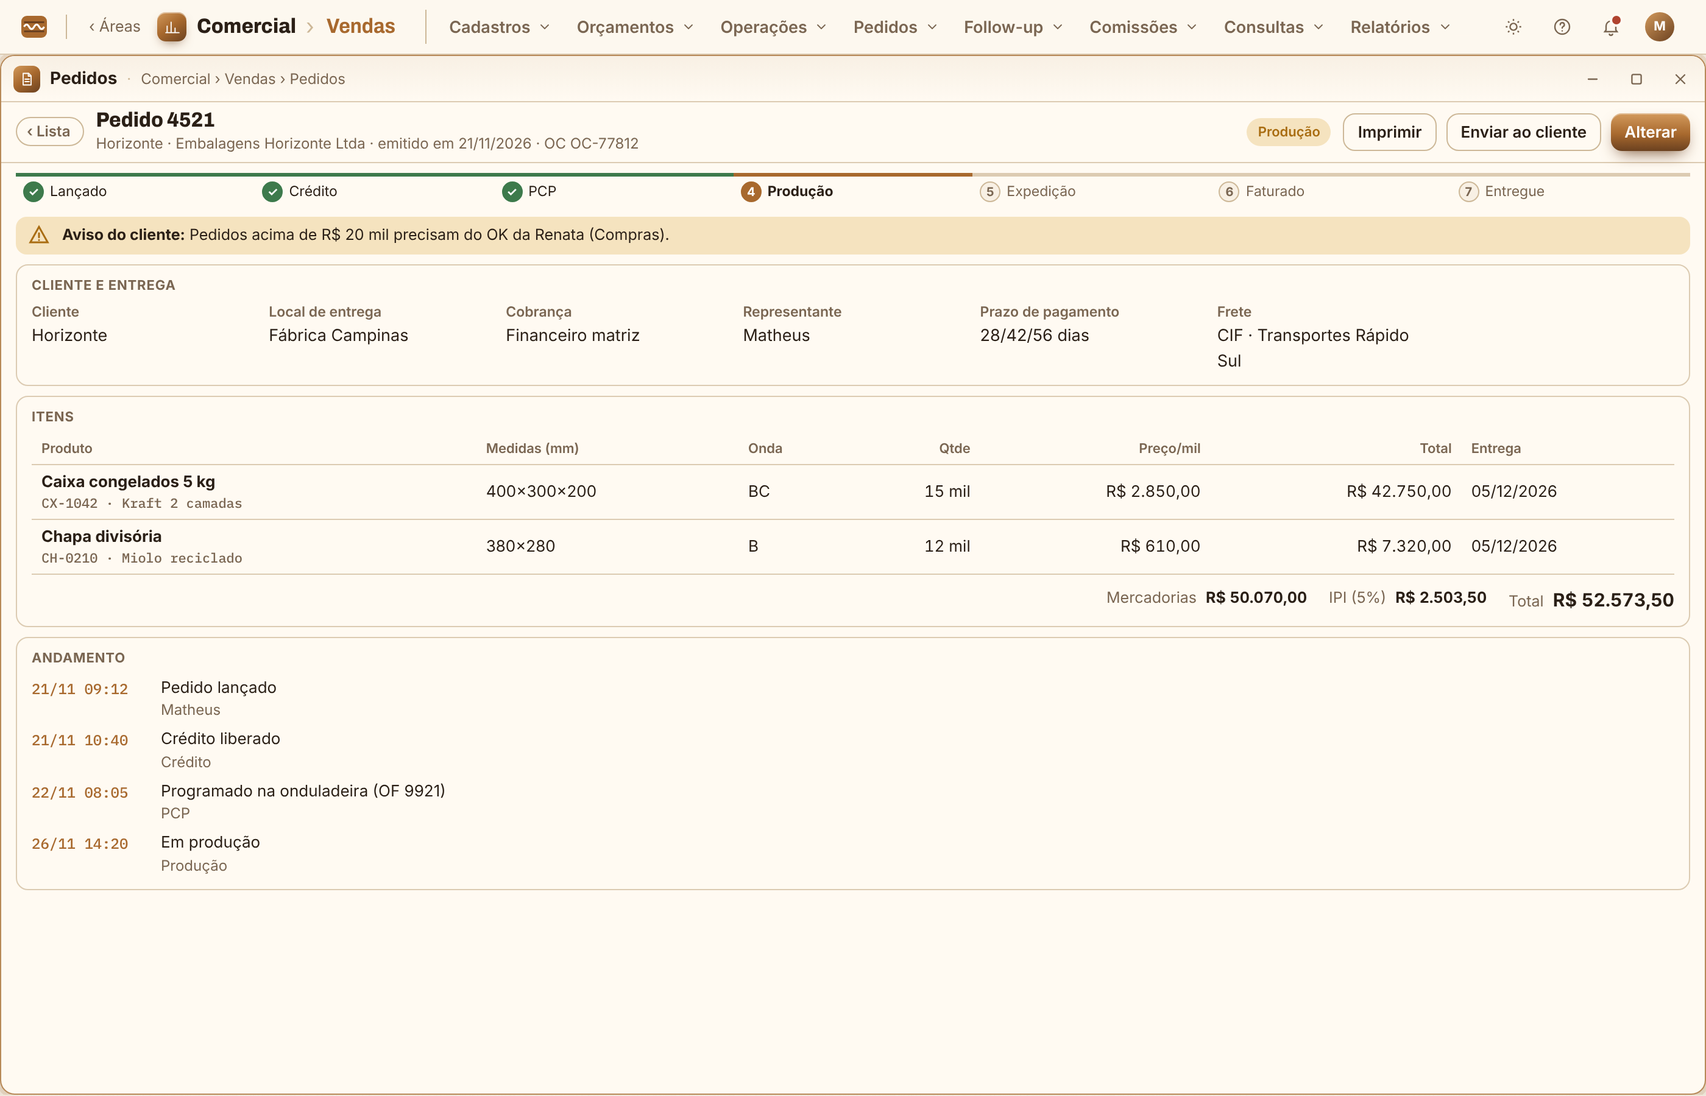
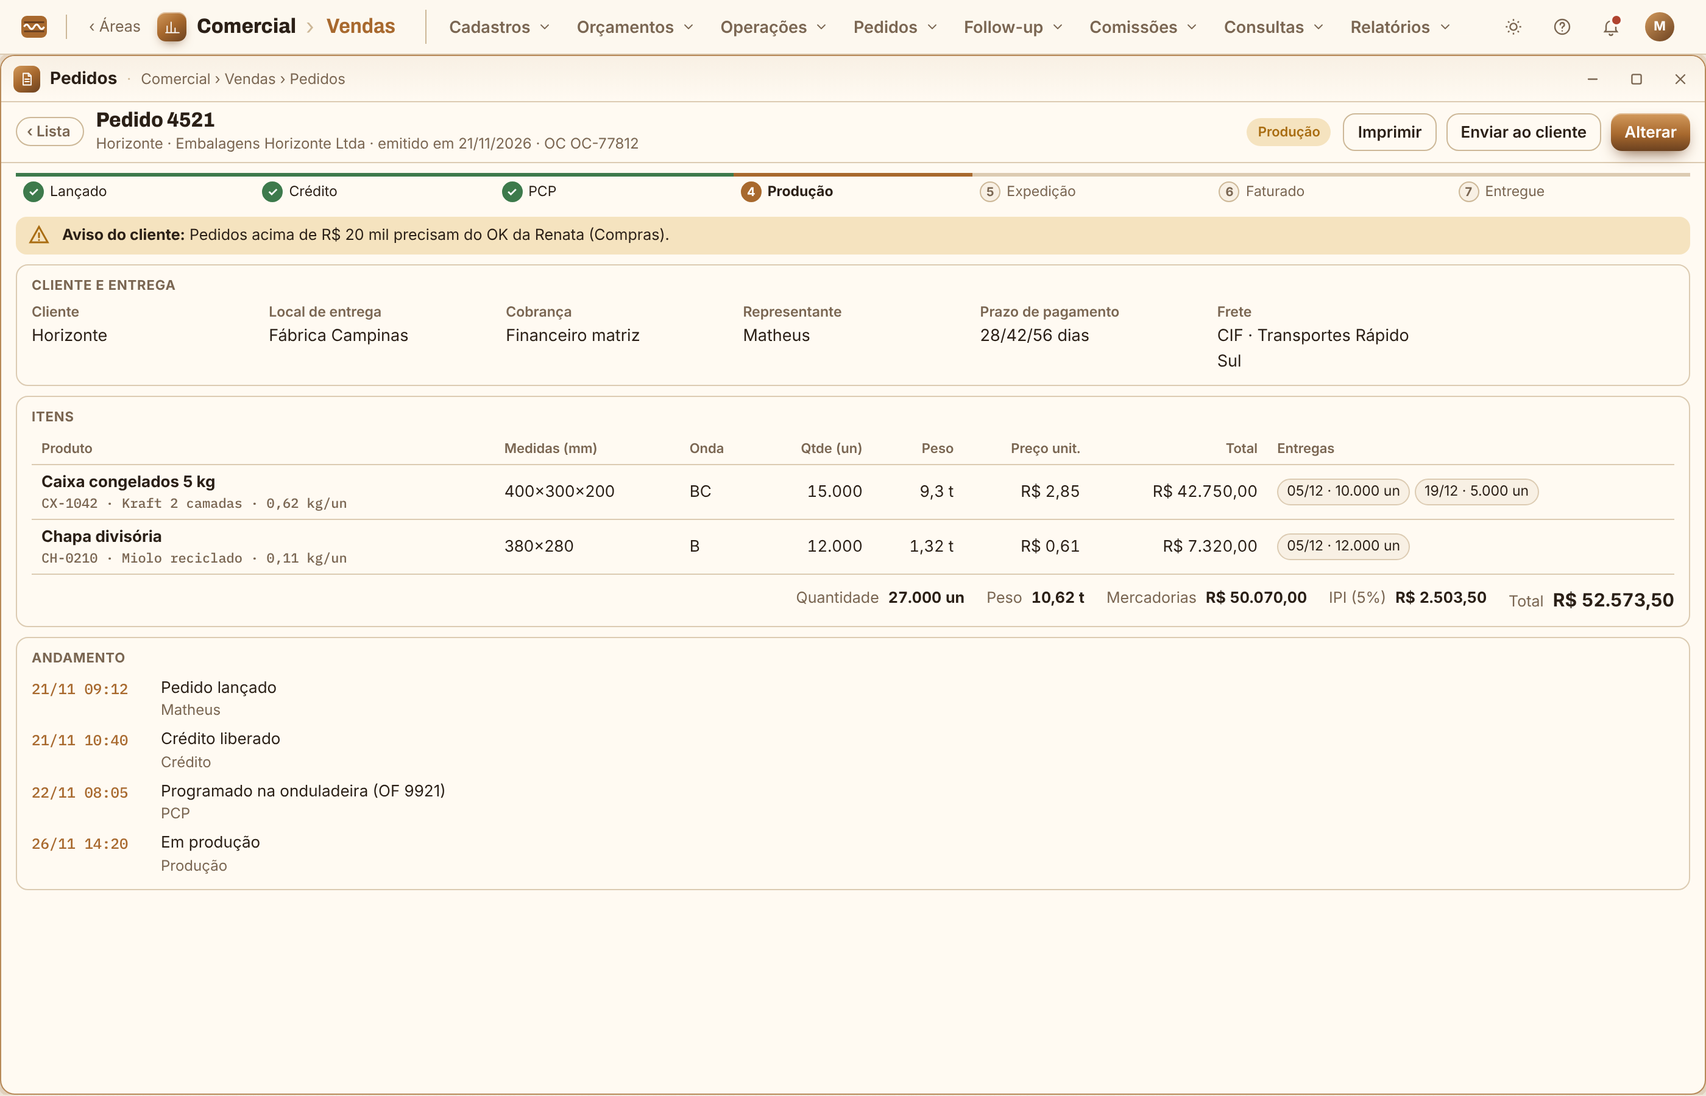
Pedidos: quantidade em unidades com peso, preço unitário e várias entregas por item
Claude-Session: https://claude.ai/code/session_015kL8p4eCaL1huCADCSMStj

diff --git a/prototipo/tela-inicial-e-comercial.html b/prototipo/tela-inicial-e-comercial.html
@@ -515,7 +515,7 @@ textarea.falta{border-color:var(--bad)!important}
 .pd-linhas tbody tr{cursor:pointer}
 .pd-linhas tbody tr:hover{background:var(--kraft-soft)}
 .pd-itens td small{display:block;color:var(--muted);font-size:11px}
-.pd-itens input{width:84px;text-align:right;font:inherit;padding:2px 6px;border:1px solid var(--line-2);border-radius:6px;background:var(--surface);color:var(--ink)}
+.pd-itens input{width:78px;text-align:right;font:inherit;padding:2px 6px;border:1px solid var(--line-2);border-radius:6px;background:var(--surface);color:var(--ink)}
 .pd-etapas{list-style:none;margin:8px 12px 0;padding:0;display:flex;gap:0;font-size:11.5px;color:var(--muted)}
 .pd-etapas li{flex:1;display:flex;align-items:center;gap:5px;padding:4px 6px;border-top:3px solid var(--line);white-space:nowrap}
 .pd-etapas li span{width:17px;height:17px;border-radius:50%;display:grid;place-items:center;font-size:10px;font-weight:700;background:var(--surface-2);border:1px solid var(--line-2);flex:none}
@@ -540,6 +540,16 @@ textarea.falta{border-color:var(--bad)!important}
 .pd-cli{max-width:520px}
 .pd-cli select{background:var(--surface)!important}
 .pd-prods{display:flex;flex-wrap:wrap;gap:6px}
+.pd-td-ents{white-space:normal!important}
+.pd-ent{display:inline-block;margin:1px 4px 1px 0;padding:1px 7px;border-radius:99px;background:var(--surface-2);border:1px solid var(--line);font-size:11.5px;white-space:nowrap}
+.pd-ents{display:flex;flex-wrap:wrap;gap:3px 8px;align-items:center;font-size:12px;color:var(--muted)}
+.pd-ents span{display:inline-flex;gap:3px;align-items:center;white-space:nowrap}
+.pd-ents .pd-data{width:88px;text-align:left}
+.pd-ents input[data-eqtd]{width:64px}
+.pd-x{border:0;background:transparent;color:var(--bad);cursor:pointer;font-size:14px;padding:0 2px}
+.pd-mais{border:1px dashed var(--line-2);background:transparent;border-radius:6px;padding:1px 7px;font-size:11.5px;cursor:pointer;color:var(--kraft)}
+.pd-ents em{font-style:normal;color:var(--warn);font-weight:600}
+.pd-ents em.neg{color:var(--bad)}
 .pd-prod{display:grid;text-align:left;border:1px dashed var(--line-2);background:var(--surface-2);border-radius:8px;padding:5px 10px;cursor:pointer;font-size:13px}
 .pd-prod small{font-size:11.5px;color:var(--muted)}
 .pd-prod:hover{border-color:var(--kraft);border-style:solid}
@@ -3305,35 +3315,39 @@ function novoProspect(box){
 const ETAPAS = ['Lançado','Crédito','PCP','Produção','Expedição','Faturado','Entregue'];
 const PRODUTOS_CLI = {
   1: [
-    { cod:'CX-1042', desc:'Caixa congelados 5 kg', med:'400×300×200', onda:'BC', comp:'Kraft 2 camadas', un:'mil', preco:2850 },
-    { cod:'CX-1043', desc:'Caixa congelados 10 kg', med:'500×350×250', onda:'BC', comp:'Kraft 2 camadas', un:'mil', preco:3920 },
-    { cod:'CH-0210', desc:'Chapa divisória', med:'380×280', onda:'B', comp:'Miolo reciclado', un:'mil', preco:610 },
+    { cod:'CX-1042', desc:'Caixa congelados 5 kg', med:'400×300×200', onda:'BC', comp:'Kraft 2 camadas', peso:0.62, preco:2.85 },
+    { cod:'CX-1043', desc:'Caixa congelados 10 kg', med:'500×350×250', onda:'BC', comp:'Kraft 2 camadas', peso:0.95, preco:3.92 },
+    { cod:'CH-0210', desc:'Chapa divisória', med:'380×280', onda:'B', comp:'Miolo reciclado', peso:0.11, preco:0.61 },
   ],
   2: [
-    { cod:'CX-2201', desc:'Caixa cortes bovinos 20 kg', med:'600×400×180', onda:'BC', comp:'Kraft resistente à umidade', un:'mil', preco:4710 },
-    { cod:'CX-2205', desc:'Caixa embutidos 6 kg', med:'420×300×150', onda:'C', comp:'Kraft', un:'mil', preco:2340 },
+    { cod:'CX-2201', desc:'Caixa cortes bovinos 20 kg', med:'600×400×180', onda:'BC', comp:'Kraft resistente à umidade', peso:1.20, preco:4.71 },
+    { cod:'CX-2205', desc:'Caixa embutidos 6 kg', med:'420×300×150', onda:'C', comp:'Kraft', peso:0.48, preco:2.34 },
   ],
   3: [], 4: [],
 };
 const PEDIDOS = [
   { n:'4521', cli:1, data:'21/11/2026', oc:'OC-77812', etapa:3, rep:'Matheus', entrega:'Fábrica Campinas', cobranca:'Financeiro matriz', prazo:'28/42/56 dias', frete:'CIF', transp:'Transportes Rápido Sul', obs:'',
-    itens:[ { cod:'CX-1042', qtd:15, preco:2850, ent:'05/12/2026' }, { cod:'CH-0210', qtd:12, preco:610, ent:'05/12/2026' } ],
+    itens:[ { cod:'CX-1042', qtd:15000, preco:2.85, ents:[ { data:'05/12/2026', qtd:10000 }, { data:'19/12/2026', qtd:5000 } ] }, { cod:'CH-0210', qtd:12000, preco:0.61, ents:[ { data:'05/12/2026', qtd:12000 } ] } ],
     hist:[ ['21/11 09:12','Pedido lançado','Matheus'], ['21/11 10:40','Crédito liberado','Crédito'], ['22/11 08:05','Programado na onduladeira (OF 9921)','PCP'], ['26/11 14:20','Em produção','Produção'] ] },
   { n:'4509', cli:2, data:'18/11/2026', oc:'PC 3310', etapa:2, rep:'Matheus', entrega:'Planta Araraquara', cobranca:'Contas a pagar', prazo:'28 dias', frete:'CIF', transp:'Transportes Rápido Sul', obs:'Câmara fria: entregar em paletes filmados.',
-    itens:[ { cod:'CX-2201', qtd:5, preco:4710, ent:'02/12/2026' }, { cod:'CX-2205', qtd:1.5, preco:2340, ent:'02/12/2026' } ],
+    itens:[ { cod:'CX-2201', qtd:5000, preco:4.71, ents:[ { data:'02/12/2026', qtd:5000 } ] }, { cod:'CX-2205', qtd:1500, preco:2.34, ents:[ { data:'02/12/2026', qtd:1500 } ] } ],
     hist:[ ['18/11 15:30','Pedido lançado','Matheus'], ['19/11 09:00','Crédito liberado pela gerência (limite em 95%)','Crédito'] ] },
   { n:'4488', cli:1, data:'12/11/2026', oc:'OC-77640', etapa:5, rep:'Matheus', entrega:'CD Sumaré', cobranca:'Financeiro matriz', prazo:'28/42/56 dias', frete:'CIF', transp:'Transportes Rápido Sul', obs:'',
-    itens:[ { cod:'CX-1043', qtd:9.9, preco:3920, ent:'25/11/2026' } ],
+    itens:[ { cod:'CX-1043', qtd:9900, preco:3.92, ents:[ { data:'25/11/2026', qtd:9900 } ] } ],
     hist:[ ['12/11','Pedido lançado','Matheus'], ['24/11','Faturado · NF 88430','Faturamento'] ] },
   { n:'4530', cli:2, data:'26/11/2026', oc:'', etapa:1, rep:'Matheus', entrega:'Planta Araraquara', cobranca:'Contas a pagar', prazo:'28 dias', frete:'CIF', transp:'Transportes Rápido Sul', obs:'',
-    itens:[ { cod:'CX-2205', qtd:4, preco:2340, ent:'10/12/2026' } ],
+    itens:[ { cod:'CX-2205', qtd:4000, preco:2.34, ents:[ { data:'10/12/2026', qtd:4000 } ] } ],
     hist:[ ['26/11 16:02','Pedido lançado','Matheus'], ['26/11 16:02','Aguardando crédito: limite estourado','Sistema'] ], bloqueio:'Crédito: o pedido passa do limite do cliente.' },
   { n:'4430', cli:1, data:'30/10/2026', oc:'OC-77210', etapa:6, rep:'Matheus', entrega:'Fábrica Campinas', cobranca:'Financeiro matriz', prazo:'28/42/56 dias', frete:'CIF', transp:'Transportes Rápido Sul', obs:'',
-    itens:[ { cod:'CX-1042', qtd:18, preco:2790, ent:'14/11/2026' } ],
+    itens:[ { cod:'CX-1042', qtd:18000, preco:2.79, ents:[ { data:'14/11/2026', qtd:18000 } ] } ],
     hist:[ ['30/10','Pedido lançado','Matheus'], ['13/11','Faturado · NF 88102','Faturamento'], ['14/11','Entregue','Expedição'] ] },
 ];
 const brl = (v) => 'R$ ' + v.toLocaleString('pt-BR', { minimumFractionDigits:2, maximumFractionDigits:2 });
-const prodDe = (cli, cod) => (PRODUTOS_CLI[cli] || []).find(p => p.cod === cod) || { desc:cod, med:'', onda:'', comp:'', un:'mil' };
+const prodDe = (cli, cod) => (PRODUTOS_CLI[cli] || []).find(p => p.cod === cod) || { desc:cod, med:'', onda:'', comp:'', peso:0, preco:0 };
+const un = (v) => Math.round(v).toLocaleString('pt-BR');
+const kg = (v) => v >= 1000 ? (v / 1000).toLocaleString('pt-BR', { maximumFractionDigits:2 }) + ' t' : Math.round(v).toLocaleString('pt-BR') + ' kg';
+const brl4 = (v) => 'R$ ' + v.toLocaleString('pt-BR', { minimumFractionDigits:2, maximumFractionDigits:4 });
+const pesoPed = (cli, itens) => itens.reduce((a, i) => a + i.qtd * (prodDe(cli, i.cod).peso || 0), 0);
 const totalPed = (p) => p.itens.reduce((a, i) => a + i.qtd * i.preco, 0);
 const cliDe = (id) => CLIENTES.find(c => c.id === id);
 const pillEtapa = (p) => p.bloqueio ? '<span class="pill p-bad">Bloqueado</span>'
@@ -3357,7 +3371,7 @@ function listaPedidos(box, soLinhas){
     .sort((a, b) => b.n.localeCompare(a.n));
   const linhas = l.length ? `<table class="pd-tab"><thead><tr><th>Pedido</th><th>Cliente</th><th>OC do cliente</th><th>Emissão</th><th>Entrega</th><th class="num">Valor</th><th>Etapa</th></tr></thead><tbody>${l.map(p => {
       const c = cliDe(p.cli);
-      return `<tr data-ped="${p.n}"><td class="mono">${p.n}</td><td><b>${esc(nomeExib(c))}</b></td><td>${esc(p.oc || '—')}</td><td>${p.data.slice(0,5)}</td><td>${p.itens[0].ent.slice(0,5)}</td><td class="num">${brl(totalPed(p))}</td><td>${pillEtapa(p)}</td></tr>`;
+      return `<tr data-ped="${p.n}"><td class="mono">${p.n}</td><td><b>${esc(nomeExib(c))}</b></td><td>${esc(p.oc || '—')}</td><td>${p.data.slice(0,5)}</td><td>${p.itens[0].ents[0].data.slice(0,5)}</td><td class="num">${brl(totalPed(p))}</td><td>${pillEtapa(p)}</td></tr>`;
     }).join('')}</tbody></table>` : '<div class="vazio"><b>Nenhum pedido aqui</b><span>Busque pelo número, OC ou cliente.</span></div>';
   if (soLinhas) { box.querySelector('.pd-linhas').innerHTML = linhas; return; }
   box.innerHTML = `<div class="cl-topo">
@@ -3370,17 +3384,22 @@ function etapasHTML(p){
   return `<ol class="pd-etapas">${ETAPAS.map((e, i) => `<li class="${i < p.etapa ? 'feita' : i === p.etapa ? (p.bloqueio ? 'bloq' : 'atual') : ''}"><span>${i < p.etapa ? '✓' : i + 1}</span>${e}</li>`).join('')}</ol>`;
 }
 function itensHTML(cli, itens, editavel){
-  return `<table class="pd-tab pd-itens"><thead><tr><th>Produto</th><th>Medidas (mm)</th><th>Onda</th><th class="num">Qtde</th><th class="num">Preço/mil</th><th class="num">Total</th><th>Entrega</th></tr></thead><tbody>${itens.map((i, k) => {
-      const pr = prodDe(cli, i.cod);
-      return `<tr><td><b>${esc(pr.desc)}</b><small class="mono">${i.cod} · ${esc(pr.comp)}</small></td><td>${pr.med}</td><td>${pr.onda}</td>
-        <td class="num">${editavel ? `<input data-qtd="${k}" value="${String(i.qtd).replace('.', ',')}">` : i.qtd.toLocaleString('pt-BR') + ' mil'}</td>
-        <td class="num">${editavel ? `<input data-preco="${k}" value="${i.preco.toFixed(2).replace('.', ',')}">` : brl(i.preco)}</td>
-        <td class="num" data-tot="${k}">${brl(i.qtd * i.preco)}</td><td>${i.ent}</td></tr>`;
+  return `<table class="pd-tab pd-itens"><thead><tr><th>Produto</th><th>Medidas (mm)</th><th>Onda</th><th class="num">Qtde (un)</th><th class="num">Peso</th><th class="num">Preço unit.</th><th class="num">Total</th><th>Entregas</th></tr></thead><tbody>${itens.map((i, k) => {
+      const pr = prodDe(cli, i.cod), soma = i.ents.reduce((a, e) => a + e.qtd, 0), falta = i.qtd - soma;
+      const ents = editavel
+        ? `<div class="pd-ents">${i.ents.map((e, x) => `<span><input class="pd-data" data-edata="${k}.${x}" value="${e.data}"><input data-eqtd="${k}.${x}" value="${un(e.qtd)}"> un${i.ents.length > 1 ? `<button type="button" class="pd-x" data-erm="${k}.${x}" title="Tirar esta entrega">×</button>` : ''}</span>`).join('')}
+            <button type="button" class="pd-mais" data-eadd="${k}">+ entrega</button>${falta ? `<em class="${falta < 0 ? 'neg' : ''}">${falta > 0 ? 'faltam ' + un(falta) : 'sobram ' + un(-falta)} un</em>` : ''}</div>`
+        : i.ents.map(e => `<span class="pd-ent">${e.data.slice(0,5)} · ${un(e.qtd)} un</span>`).join('');
+      return `<tr><td><b>${esc(pr.desc)}</b><small class="mono">${i.cod} · ${esc(pr.comp)} · ${(pr.peso || 0).toLocaleString('pt-BR')} kg/un</small></td><td>${pr.med}</td><td>${pr.onda}</td>
+        <td class="num">${editavel ? `<input data-qtd="${k}" value="${un(i.qtd)}">` : un(i.qtd)}</td>
+        <td class="num" data-peso="${k}">${kg(i.qtd * (pr.peso || 0))}</td>
+        <td class="num">${editavel ? `<input data-preco="${k}" value="${i.preco.toFixed(2).replace('.', ',')}">` : brl4(i.preco)}</td>
+        <td class="num" data-tot="${k}">${brl(i.qtd * i.preco)}</td><td class="pd-td-ents">${ents}</td></tr>`;
     }).join('')}</tbody></table>`;
 }
-function totaisHTML(itens){
-  const v = itens.reduce((a, i) => a + i.qtd * i.preco, 0), ipi = v * 0.05;
-  return `<div class="pd-totais"><span>Mercadorias <b data-tmerc>${brl(v)}</b></span><span>IPI (5%) <b data-tipi>${brl(ipi)}</b></span><span class="pd-total">Total <b data-ttot>${brl(v + ipi)}</b></span></div>`;
+function totaisHTML(cli, itens){
+  const v = itens.reduce((a, i) => a + i.qtd * i.preco, 0), ipi = v * 0.05, q = itens.reduce((a, i) => a + i.qtd, 0);
+  return `<div class="pd-totais"><span>Quantidade <b data-tqtd>${un(q)} un</b></span><span>Peso <b data-tpeso>${kg(pesoPed(cli, itens))}</b></span><span>Mercadorias <b data-tmerc>${brl(v)}</b></span><span>IPI (5%) <b data-tipi>${brl(ipi)}</b></span><span class="pd-total">Total <b data-ttot>${brl(v + ipi)}</b></span></div>`;
 }
 function abrirPedido(box){
   const p = PEDIDOS.find(x => x.n === box._sel), c = cliDe(p.cli);
@@ -3399,7 +3418,7 @@ function abrirPedido(box){
         <span><small>Cliente</small>${esc(nomeExib(c))}</span><span><small>Local de entrega</small>${esc(p.entrega)}</span>
         <span><small>Cobrança</small>${esc(p.cobranca)}</span><span><small>Representante</small>${esc(p.rep)}</span>
         <span><small>Prazo de pagamento</small>${esc(p.prazo)}</span><span><small>Frete</small>${p.frete} · ${esc(p.transp)}</span></div></section>
-      <section class="cl-bloco"><h4>Itens</h4>${itensHTML(p.cli, p.itens, false)}${totaisHTML(p.itens)}</section>
+      <section class="cl-bloco"><h4>Itens</h4>${itensHTML(p.cli, p.itens, false)}${totaisHTML(p.cli, p.itens)}</section>
       ${p.obs ? `<section class="cl-bloco"><h4>Observações</h4><p class="cl-txt">${esc(p.obs)}</p></section>` : ''}
       <section class="cl-bloco"><h4>Andamento</h4><ul class="cl-tempo">${p.hist.map(h => `<li><span class="mono">${h[0]}</span><div>${esc(h[1])}<small>${esc(h[2])}</small></div></li>`).join('')}</ul></section>
     </div></div>`;
@@ -3427,22 +3446,33 @@ function montarNovo(box, cliId){
       ${f('OC do cliente', '', { ph:'Número da ordem de compra' })}
       ${f('Prazo de pagamento', '28/42/56 dias')}${f('Frete', 'CIF', { opcoes:['CIF','FOB'] })}${f('Transportador', 'Transportes Rápido Sul')}</div></section>
     <section class="cl-bloco"><h4>Itens <small>produtos que este cliente já compra · último preço sugerido</small></h4>
-      <div class="pd-prods">${prods.map(pr => `<button type="button" class="pd-prod" data-add-prod="${pr.cod}"><b>${esc(pr.desc)}</b><small>${pr.cod} · ${pr.med} · onda ${pr.onda} · último ${brl(pr.preco)}/mil</small></button>`).join('') || '<p class="cl-txt">Este cliente ainda não tem produtos. Peça o desenvolvimento à Engenharia de produto.</p>'}</div>
+      <div class="pd-prods">${prods.map(pr => `<button type="button" class="pd-prod" data-add-prod="${pr.cod}"><b>${esc(pr.desc)}</b><small>${pr.cod} · ${pr.med} · onda ${pr.onda} · ${(pr.peso).toLocaleString('pt-BR')} kg/un · último ${brl4(pr.preco)}/un</small></button>`).join('') || '<p class="cl-txt">Este cliente ainda não tem produtos. Peça o desenvolvimento à Engenharia de produto.</p>'}</div>
       <div id="pdItens"></div></section>
     <div id="pdCredito"></div>`;
   travar(box); box.querySelectorAll('#pdResto input, #pdResto select').forEach(el => el.disabled = false);
   recalcNovo(box);
 }
-function recalcNovo(box){
+const numBR = (v) => parseFloat(String(v).replace(/\./g, '').replace(',', '.')) || 0;
+function lerNovo(box){
+  const nv = box._novo;
+  box.querySelectorAll('[data-qtd]').forEach(el => { const it = nv.itens[+el.dataset.qtd], ant = it.qtd; it.qtd = numBR(el.value); if (it.ents.length === 1 && it.ents[0].qtd === ant) it.ents[0].qtd = it.qtd; });
+  box.querySelectorAll('[data-preco]').forEach(el => { nv.itens[+el.dataset.preco].preco = numBR(el.value); });
+  box.querySelectorAll('[data-eqtd]').forEach(el => { const [k, x] = el.dataset.eqtd.split('.'); nv.itens[k].ents[x].qtd = numBR(el.value); });
+  box.querySelectorAll('[data-edata]').forEach(el => { const [k, x] = el.dataset.edata.split('.'); nv.itens[k].ents[x].data = el.value; });
+}
+function recalcNovo(box, redesenhar){
   const nv = box._novo; if (!nv || !nv.cli) return;
-  box.querySelectorAll('[data-qtd]').forEach(el => { nv.itens[+el.dataset.qtd].qtd = parseFloat(el.value.replace(',', '.')) || 0; });
-  box.querySelectorAll('[data-preco]').forEach(el => { nv.itens[+el.dataset.preco].preco = parseFloat(el.value.replace(/\./g, '').replace(',', '.')) || 0; });
+  lerNovo(box);
   const alvo = box.querySelector('#pdItens');
-  if (document.activeElement && alvo.contains(document.activeElement)) {
-    nv.itens.forEach((i, k) => { const t = alvo.querySelector(`[data-tot="${k}"]`); if (t) t.textContent = brl(i.qtd * i.preco); });
+  if (!redesenhar && document.activeElement && alvo.contains(document.activeElement)) {
+    nv.itens.forEach((i, k) => { const pr = prodDe(nv.cli, i.cod);
+      const t = alvo.querySelector(`[data-tot="${k}"]`); if (t) t.textContent = brl(i.qtd * i.preco);
+      const w = alvo.querySelector(`[data-peso="${k}"]`); if (w) w.textContent = kg(i.qtd * pr.peso); });
     const v = nv.itens.reduce((a, i) => a + i.qtd * i.preco, 0);
+    alvo.querySelector('[data-tqtd]').textContent = un(nv.itens.reduce((a, i) => a + i.qtd, 0)) + ' un';
+    alvo.querySelector('[data-tpeso]').textContent = kg(pesoPed(nv.cli, nv.itens));
     alvo.querySelector('[data-tmerc]').textContent = brl(v); alvo.querySelector('[data-tipi]').textContent = brl(v * .05); alvo.querySelector('[data-ttot]').textContent = brl(v * 1.05);
-  } else alvo.innerHTML = nv.itens.length ? itensHTML(nv.cli, nv.itens, true) + totaisHTML(nv.itens) : '<p class="cl-txt">Clique num produto acima para incluir.</p>';
+  } else alvo.innerHTML = nv.itens.length ? itensHTML(nv.cli, nv.itens, true) + totaisHTML(nv.cli, nv.itens) : '<p class="cl-txt">Clique num produto acima para incluir.</p>';
   const c = cliDe(nv.cli), cr = c.credito, v = nv.itens.reduce((a, i) => a + i.qtd * i.preco, 0) * 1.05;
   const livre = cr.limite - cr.usado, estoura = v > livre;
   box.querySelector('#pdCredito').innerHTML = nv.itens.length ? `<div class="cl-aviso ${estoura ? 'pd-bloq' : 'pd-ok'}">${IAVISO}<span>${estoura
@@ -3457,19 +3487,30 @@ function cliquePedidos(box, e){
   if (t('[data-novo-ped]')) return novoPedido(box);
   if (t('[data-add-prod]')) {
     const pr = prodDe(box._novo.cli, t('[data-add-prod]').dataset.addProd);
-    box._novo.itens.push({ cod: pr.cod, qtd: 1, preco: pr.preco, ent: '15/12/2026' });
-    if (document.activeElement) document.activeElement.blur();
-    return recalcNovo(box);
+    lerNovo(box);
+    box._novo.itens.push({ cod: pr.cod, qtd: 1000, preco: pr.preco, ents: [ { data:'15/12/2026', qtd:1000 } ] });
+    return recalcNovo(box, true);
+  }
+  if (t('[data-eadd]')) {
+    lerNovo(box); const it = box._novo.itens[+t('[data-eadd]').dataset.eadd];
+    const falta = Math.max(0, it.qtd - it.ents.reduce((a, e) => a + e.qtd, 0));
+    it.ents.push({ data:'30/12/2026', qtd: falta }); return recalcNovo(box, true);
+  }
+  if (t('[data-erm]')) {
+    lerNovo(box); const [k, x] = t('[data-erm]').dataset.erm.split('.'); box._novo.itens[k].ents.splice(+x, 1); return recalcNovo(box, true);
   }
   if (t('[data-gravar-ped]')) {
     const nv = box._novo;
     if (!nv || !nv.cli) return toast('Escolha o cliente');
     if (!nv.itens.length) return toast('Inclua pelo menos um item');
+    lerNovo(box);
+    const ruim = nv.itens.find(i => i.ents.reduce((a, e) => a + e.qtd, 0) !== i.qtd);
+    if (ruim) return toast('A soma das entregas precisa bater com a quantidade de ' + prodDe(nv.cli, ruim.cod).desc);
     const c = cliDe(nv.cli), v = nv.itens.reduce((a, i) => a + i.qtd * i.preco, 0) * 1.05, estoura = v > c.credito.limite - c.credito.usado;
     const n = String(Math.max(...PEDIDOS.map(p => +p.n)) + 1);
     PEDIDOS.push({ n, cli: nv.cli, data:'27/11/2026', oc: box.querySelector('#pdResto input[placeholder^="Número"]').value, etapa: estoura ? 1 : 2, rep: USUARIO.nome,
       entrega: (c.entregas[0] || {}).nome || '—', cobranca: (c.cobrancas[0] || {}).nome || '—', prazo:'28/42/56 dias', frete:'CIF', transp:'Transportes Rápido Sul', obs:'',
-      itens: nv.itens.map(i => ({ ...i })), hist: [ ['agora','Pedido lançado', USUARIO.nome], estoura ? ['agora','Aguardando crédito: passa do limite','Sistema'] : ['agora','Crédito liberado automaticamente','Sistema'] ],
+      itens: nv.itens.map(i => ({ ...i, ents: i.ents.map(e => ({ ...e })) })), hist: [ ['agora','Pedido lançado', USUARIO.nome], estoura ? ['agora','Aguardando crédito: passa do limite','Sistema'] : ['agora','Crédito liberado automaticamente','Sistema'] ],
       bloqueio: estoura ? 'Crédito: o pedido passa do limite do cliente.' : undefined });
     box._sel = n; box._novo = null; abrirPedido(box);
     return toast(`Pedido ${n} gravado`);

diff --git a/README.md b/README.md
@@ -644,13 +644,15 @@ do sistema (com IA) respeitando o que cada usuário pode acessar.
   número/OC/cliente e filtros: Em aberto · No crédito · Em produção · Faturados · Todos.
 - **Pedido aberto** mostra a **linha de etapas**: Lançado → Crédito → PCP → Produção → Expedição →
   Faturado → Entregue (etapa atual em destaque; vermelho quando bloqueado), o aviso do cliente,
-  cliente e entrega, itens (produto, medidas, onda, qtde em milheiros, preço/mil, total,
-  entrega), totais com IPI e o **andamento** (quem fez o quê e quando). Ações: Imprimir ·
+  cliente e entrega, itens (produto, medidas, onda, **quantidade em unidades**, **peso** em kg/t,
+  **preço unitário**, total e **entregas**), totais (quantidade, peso, mercadorias, IPI, total) e o **andamento** (quem fez o quê e quando). Ações: Imprimir ·
   Enviar ao cliente · Alterar (abre "Alterar pedido").
 - **Novo pedido** (pela lista ou pelo botão "Novo pedido" da ficha do cliente): escolhe o
   cliente e o sistema **preenche** local de entrega, cobrança, prazo, frete e transportador do
   cadastro; mostra os **produtos que o cliente já compra** com o **último preço**; um clique
-  inclui o item; totais recalculam na hora; **confere o crédito** enquanto digita e, se passar
+  inclui o item; totais recalculam na hora; **cada item pode ter várias entregas** (data +
+  quantidade; "+ entrega"), e o sistema avisa "faltam/sobram" e não grava se a soma das
+  entregas não bater com a quantidade do item; **confere o crédito** enquanto digita e, se passar
   do limite livre, o pedido vai para aprovação do Crédito ao gravar.
 - Fotos: `docs/fotos/39-pedidos-lista.png` a `42-pedido-bloqueado.png`.
 
